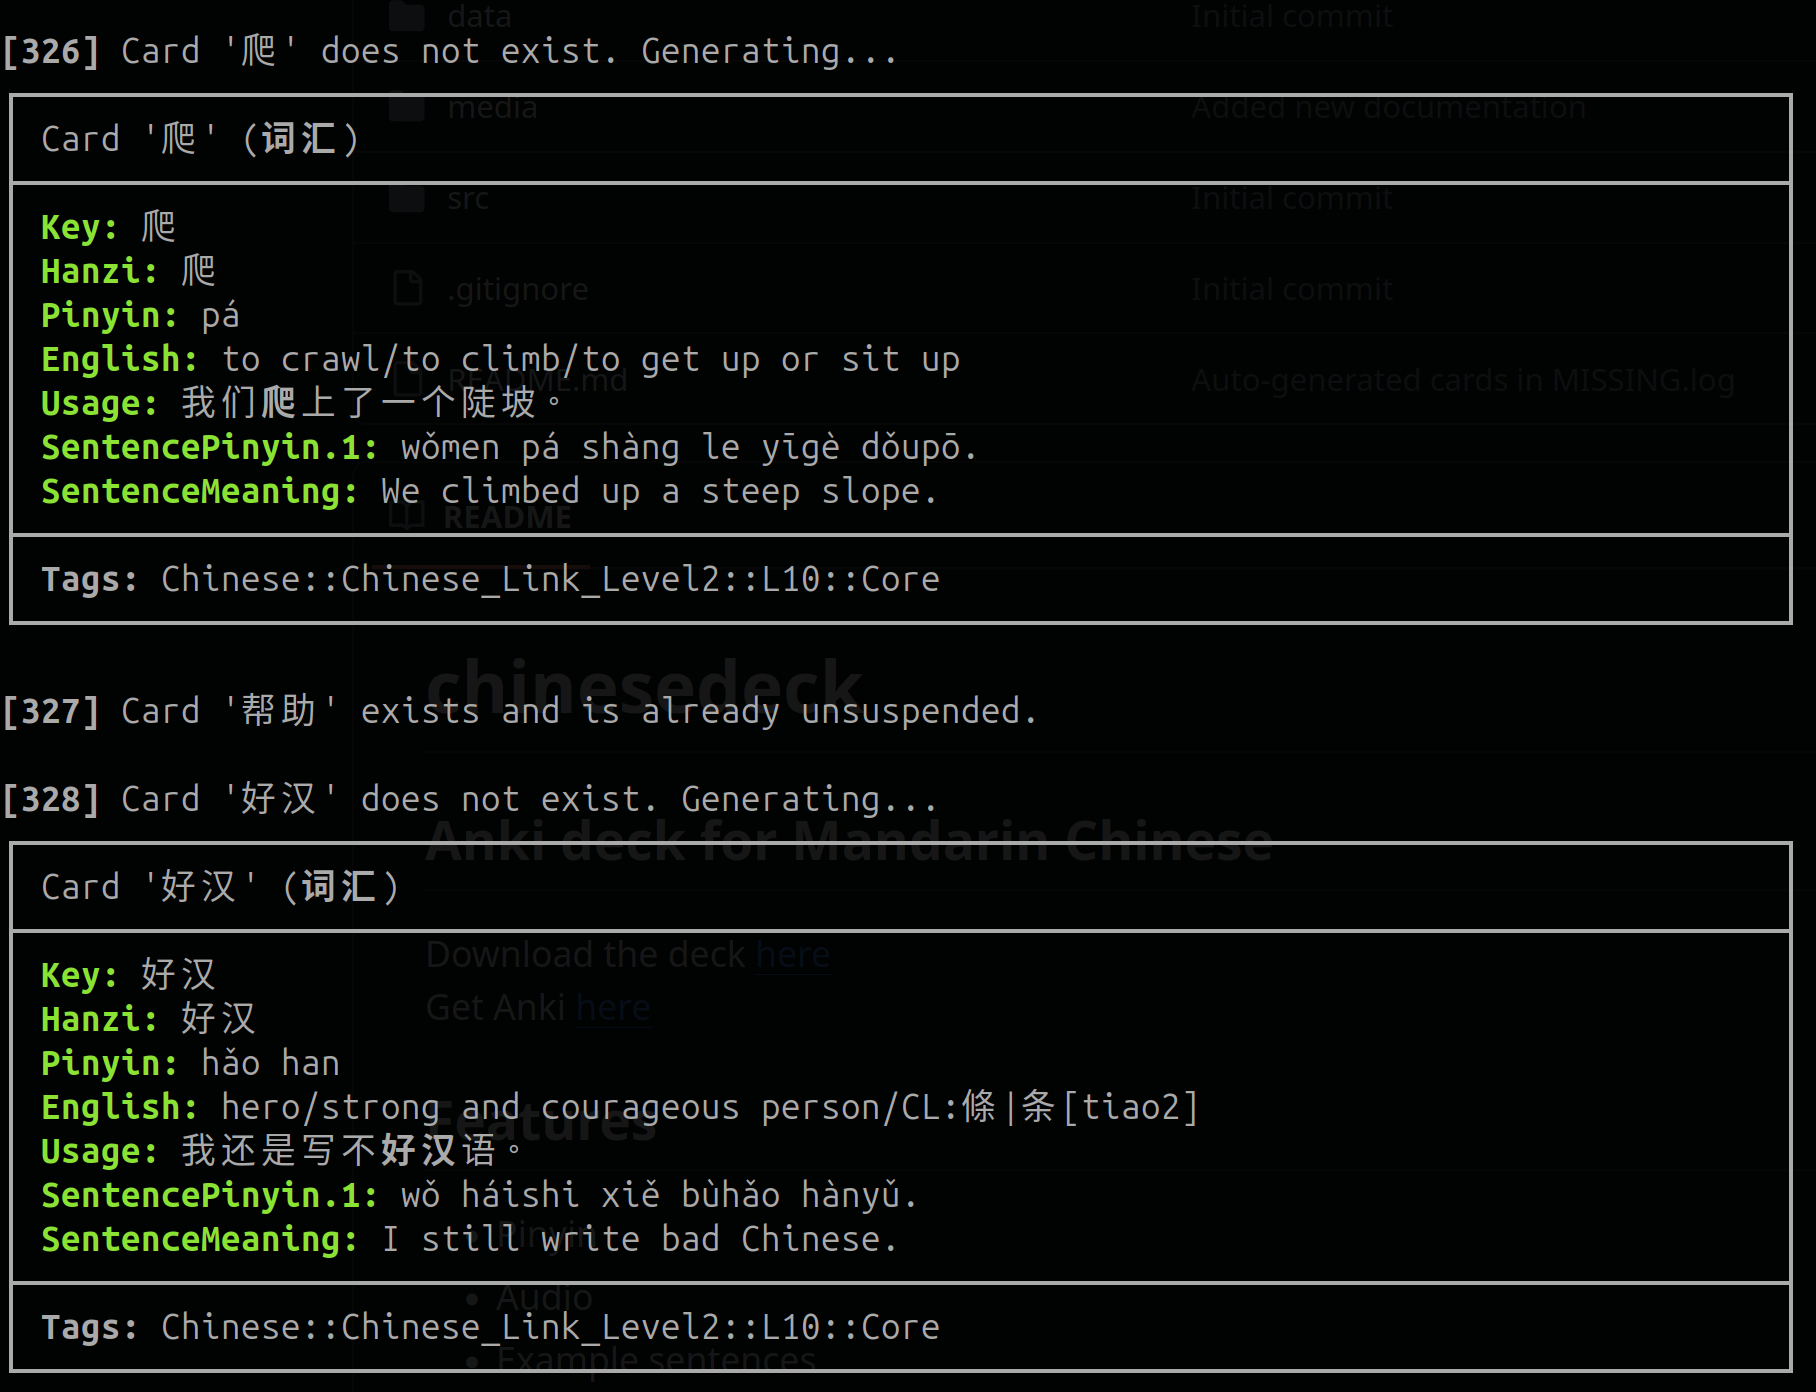
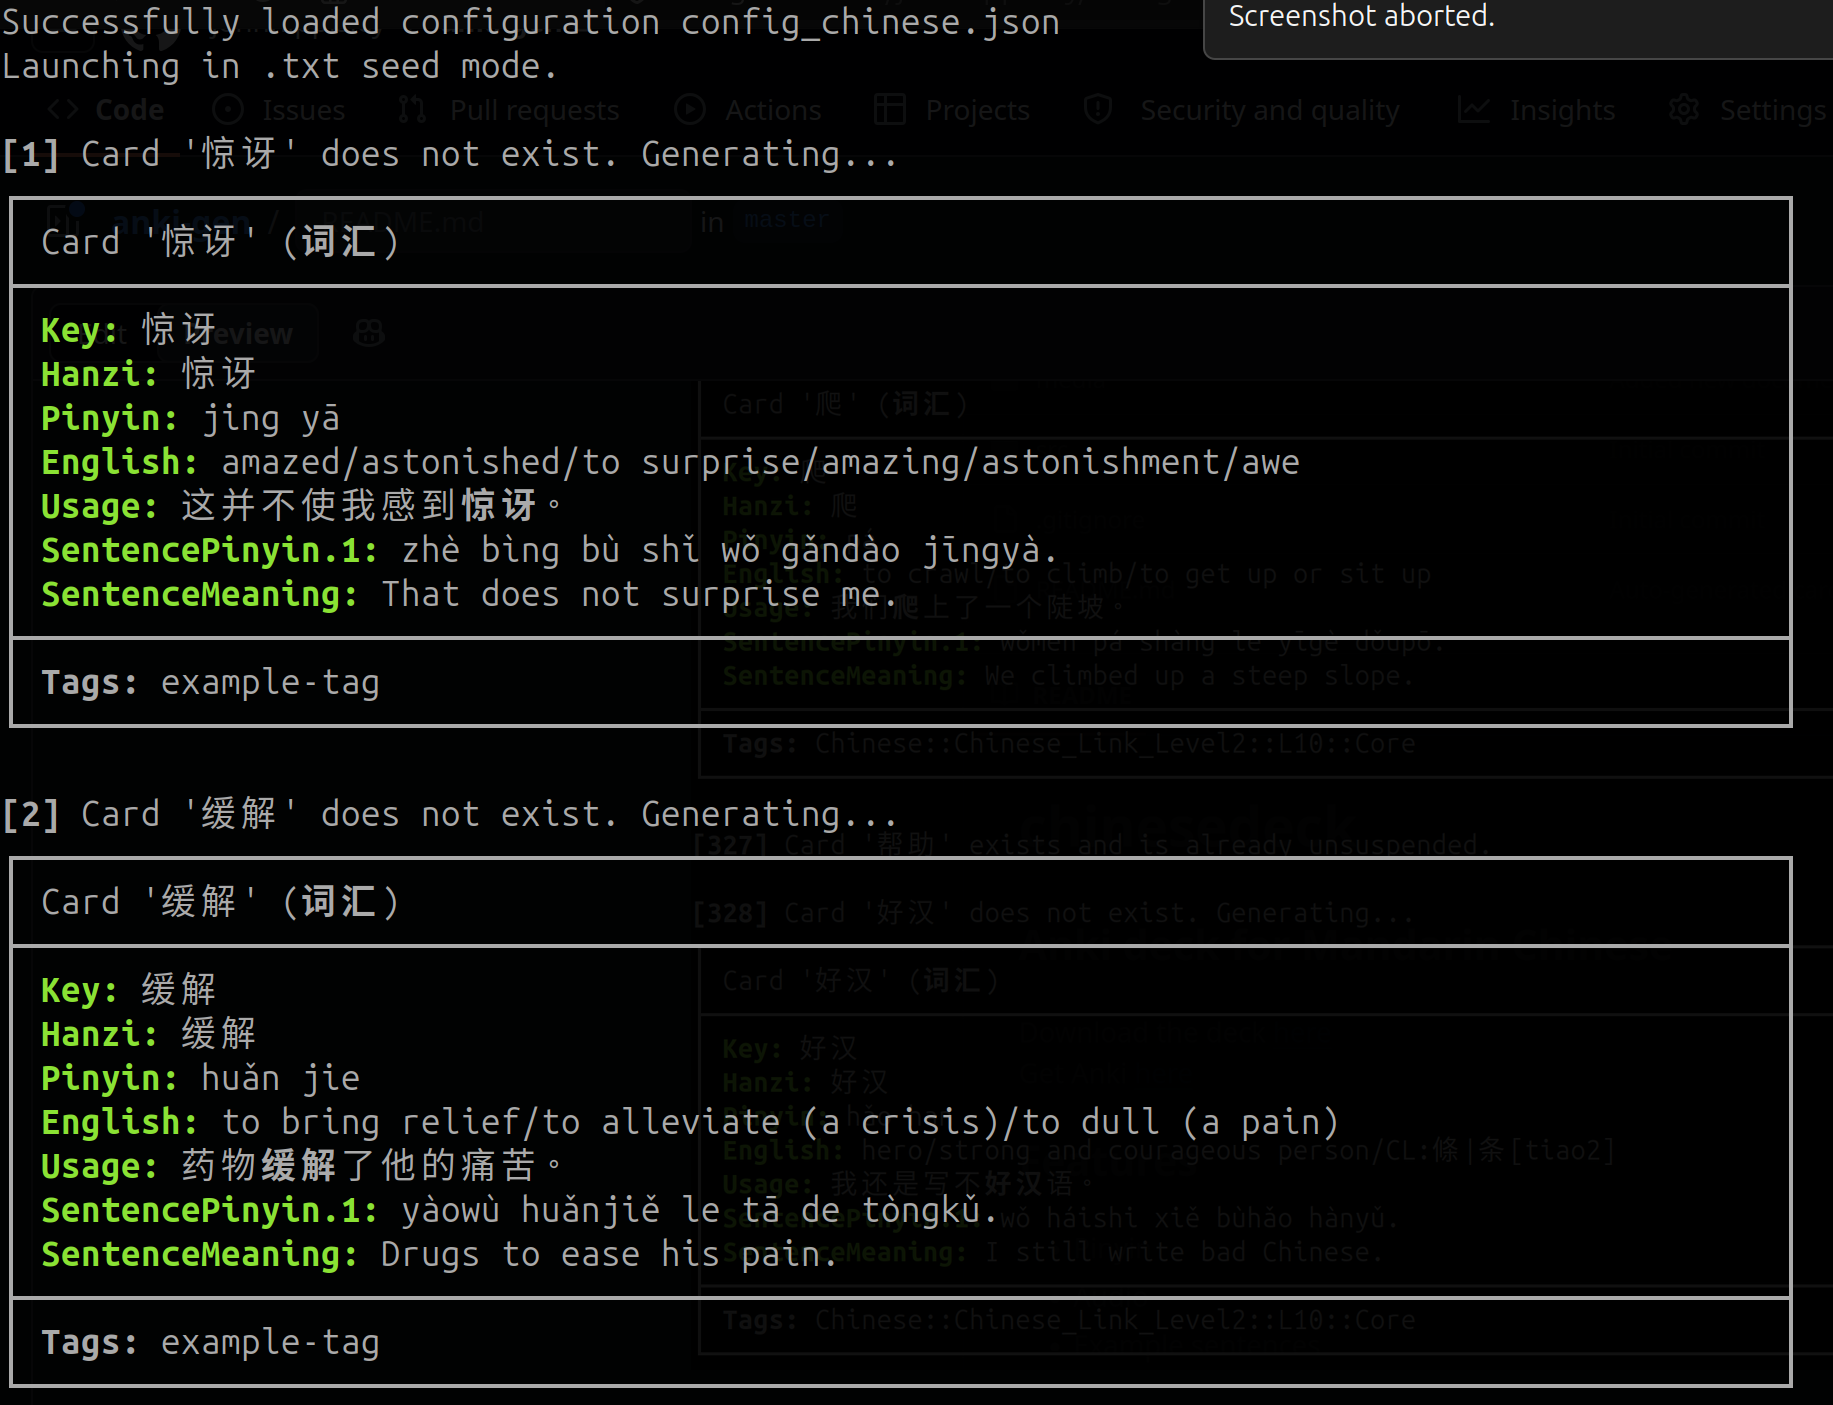
Updated media

Changed region(s): [[0.0, 0.0, 0.9868, 0.5251], [0.0, 0.556, 0.9868, 0.9885], [0.6476, 0.0, 1.0, 0.0927]]

diff --git a/main.py b/main.py
@@ -18,11 +18,11 @@ def parse_args():
 	parser.add_argument("-r", "--preview", action="store_true", help="Preview mode.")
 	parser.add_argument("-d", "--deck-name", help="Name of the Anki deck")
 	parser.add_argument("-t", "--tag", default=None, help="Tag name to apply to imported cards")
-	parser.add_argument("-c", "--config", default="config.json", help='Database configuration JSON. Default: "config.json"')
+	parser.add_argument("-c", "--config", default="config_chinese.json", help='Database configuration JSON. Default: "config_chinese.json"')
 	parser.add_argument(
 		"-v", "--verbose", nargs="?", const=1, default=0, type=int, choices=[0, 1, 2],
 		help="Verbosity level: 0 by default, 1 with --verbose, 2 with --verbose=2"
-	)	
+	)
 	return parser.parse_args()
 
 # Global configuration
